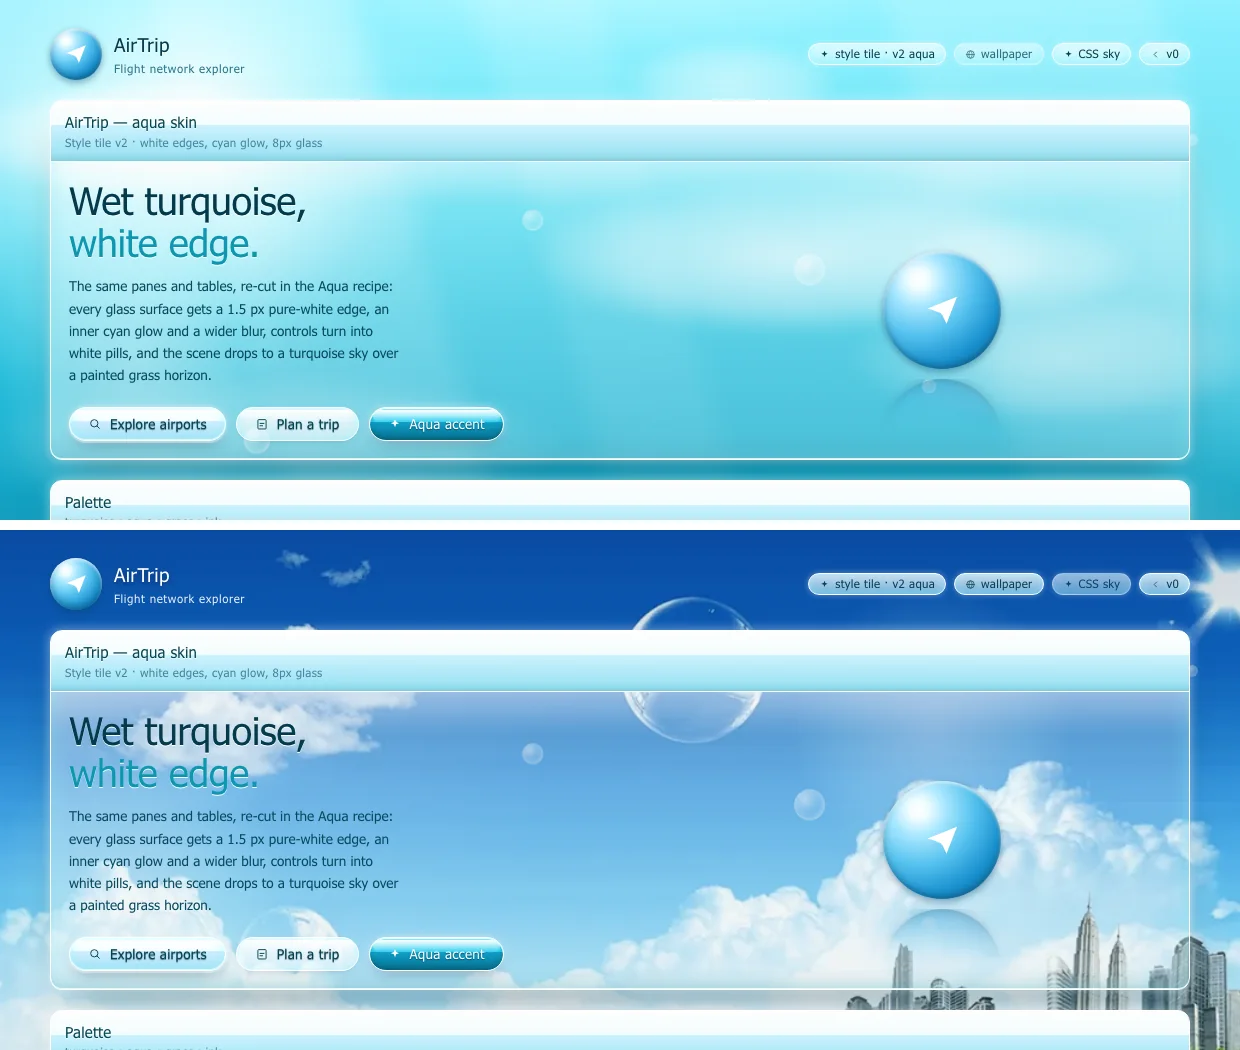
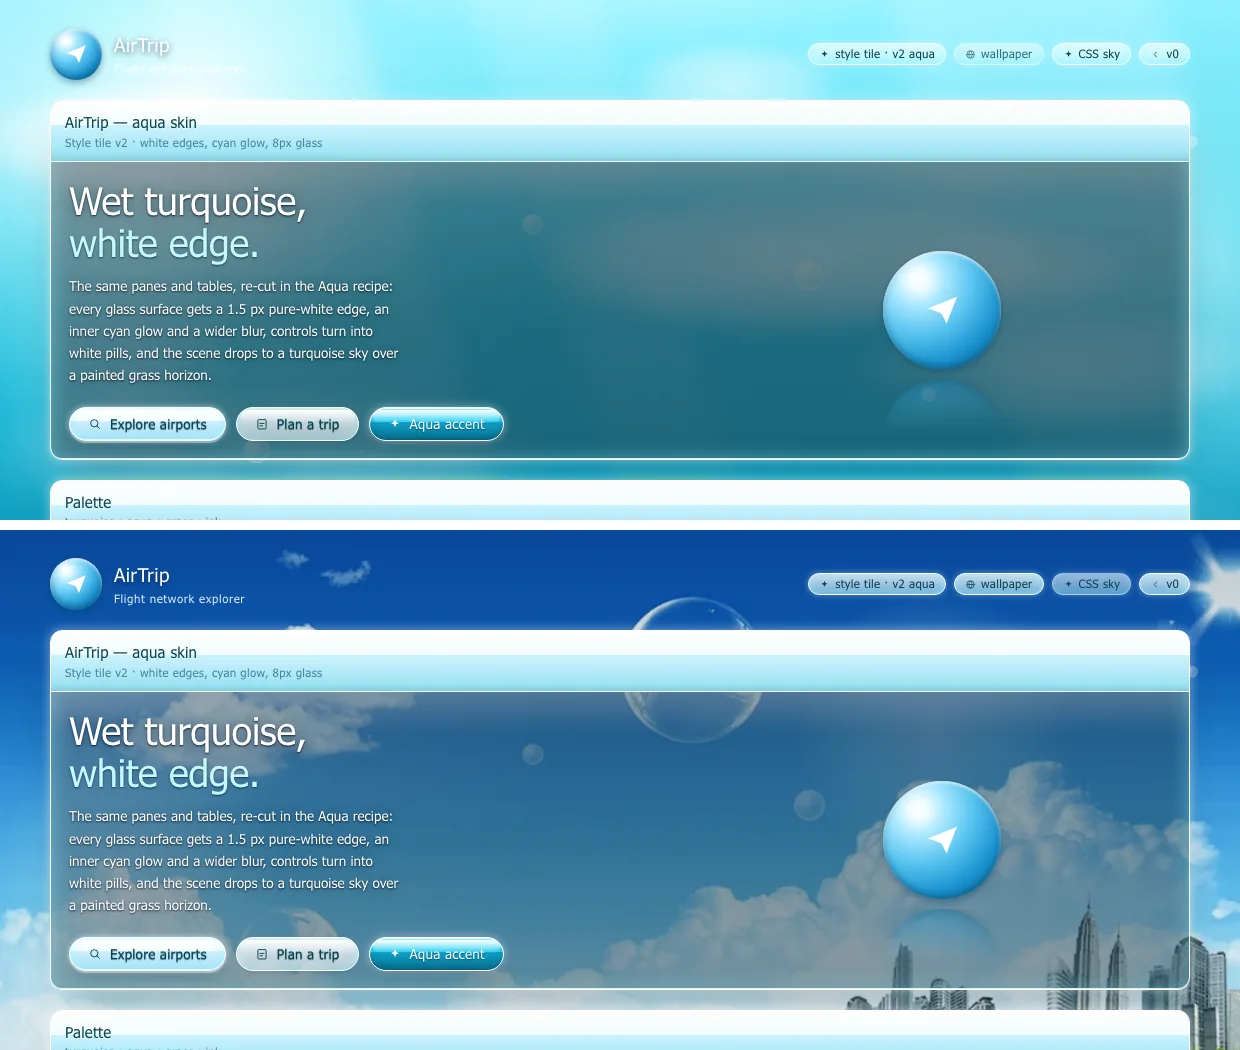
Switch the Aqua skin to white type on darker glass
Matches the reference's ink: body copy is white at 300 weight with a 1px dark
shadow, which needs a denser panel, so the glass fill goes to 46% (58% under the
painted sky) and the tables get their own dark row fills. Bars, buttons, fields
and badges keep dark ink on their pale chrome.

diff --git a/airtrip-web/src/pages/StyleTileAqua.vue b/airtrip-web/src/pages/StyleTileAqua.vue
@@ -1,5 +1,5 @@
 <script setup lang="ts">
-import { computed, onBeforeUnmount, onMounted, ref, watch } from 'vue'
+import { onBeforeUnmount, onMounted, ref, watch } from 'vue'
 import AeroWindow from '@/components/AeroWindow.vue'
 import AeroButton from '@/components/AeroButton.vue'
 import AeroIcon from '@/components/AeroIcon.vue'
@@ -30,11 +30,9 @@ onBeforeUnmount(() => {
 })
 
 // The page header sits straight on the scene, so its ink flips on the photo.
-const brandInk = computed(() => (wallpaper.value ? '#ffffff' : '#053a4c'))
-const brandShadow = computed(() =>
-  wallpaper.value ? '0 2px 6px rgba(0, 24, 48, 0.55)' : '0 1px 0 rgba(255,255,255,0.9)',
-)
-const brandSub = computed(() => (wallpaper.value ? 'rgba(255,255,255,0.9)' : '#2c7389'))
+const brandInk = '#ffffff'
+const brandShadow = '0 2px 6px rgba(0, 20, 42, 0.6)'
+const brandSub = 'rgba(255, 255, 255, 0.88)'
 
 const palette = [
   { name: 'Sky high', hex: '#A6F2FF', ink: '#053a4c' },
@@ -111,10 +109,10 @@ const icons = ['plane', 'tower', 'route', 'plan', 'users', 'upload', 'gauge', 's
     <AeroWindow title="AirTrip — aqua skin" subtitle="Style tile v2 · white edges, cyan glow, 8px glass">
       <div class="grid gap-6 md:grid-cols-[1.35fr_1fr] md:items-center">
         <div>
-          <h1 class="m-0 text-[38px] leading-[1.1] font-light tracking-[-0.5px] text-[#053a4c] [text-shadow:0_1px_0_rgba(255,255,255,0.95)]">
-            Wet turquoise,<br /><span class="text-[#0e96b0]">white edge.</span>
+          <h1 class="t-display m-0 text-[38px] leading-[1.1] font-light tracking-[-0.5px]">
+            Wet turquoise,<br /><span class="t-accent">white edge.</span>
           </h1>
-          <p class="mt-3 mb-0 max-w-[46ch] text-[13.5px] leading-[1.65] font-light text-[#0a4a5e]">
+          <p class="t-body mt-3 mb-0 max-w-[46ch] text-[13.5px] leading-[1.65] font-light">
             The same panes and tables, re-cut in the Aqua recipe: every glass surface gets a
             1.5&nbsp;px pure-white edge, an inner cyan glow and a wider blur, controls turn into
             white pills, and the scene drops to a turquoise sky over a painted grass horizon.
@@ -146,7 +144,7 @@ const icons = ['plane', 'tower', 'route', 'plan', 'users', 'upload', 'gauge', 's
           }"
         >
           <div class="text-[11px] tracking-[0.3px] opacity-80">{{ c.name }}</div>
-          <div class="mono text-[12px]">{{ c.hex }}</div>
+          <div class="swatch-mono mono text-[12px]">{{ c.hex }}</div>
         </div>
       </div>
     </AeroWindow>
@@ -154,15 +152,15 @@ const icons = ['plane', 'tower', 'route', 'plan', 'users', 'upload', 'gauge', 's
     <div class="grid gap-5 lg:grid-cols-[1.05fr_1fr]">
       <!-- type -->
       <AeroWindow title="Type" subtitle="Segoe UI / Inter · light weights only">
-        <div class="text-[32px] leading-[1.1] font-light text-[#053a4c]">Display 32 / 300</div>
-        <div class="mt-1 text-[22px] font-light text-[#0a4a5e]">Heading 22 / 300</div>
-        <div class="mt-1 text-[15px] text-[#0a4a5e]">Subheading 15 / 400</div>
-        <p class="mt-2 max-w-[52ch] text-[13.5px] leading-[1.65] font-light text-[#1b5b6d]">
+        <div class="t-display text-[32px] leading-[1.1] font-light">Display 32 / 300</div>
+        <div class="t-ink mt-1 text-[22px] font-light">Heading 22 / 300</div>
+        <div class="t-ink mt-1 text-[15px]">Subheading 15 / 400</div>
+        <p class="t-body mt-2 max-w-[52ch] text-[13.5px] leading-[1.65] font-light">
           Body 13.5 / 300 — white edges buy contrast, so long form can stay light. Numbers and
           codes keep tabular figures so columns line up.
         </p>
-        <div class="mt-2 text-[11px] tracking-[0.14em] text-[#2c7389]">LABEL 11 / 400 · TRACKED 0.14EM</div>
-        <div class="mt-1.5 mono text-[12.5px] text-[#0a4a5e]">SYD → MEL · QF 401 · 0 stops</div>
+        <div class="t-label mt-2 text-[11px] tracking-[0.14em]">LABEL 11 / 400 · TRACKED 0.14EM</div>
+        <div class="t-mono mt-1.5 mono text-[12.5px]">SYD → MEL · QF 401 · 0 stops</div>
       </AeroWindow>
 
       <!-- status -->
@@ -218,7 +216,7 @@ const icons = ['plane', 'tower', 'route', 'plan', 'users', 'upload', 'gauge', 's
               <input class="field" value="MEL" />
             </label>
           </div>
-          <div class="flex items-center gap-2 text-[13px] text-[#0a4a5e]">
+          <div class="t-ink flex items-center gap-2 text-[13px]">
             <input id="fuzzy-aqua" class="checkbox" type="checkbox" checked />
             <label for="fuzzy-aqua">Fuzzy matching</label>
           </div>
@@ -270,12 +268,12 @@ const icons = ['plane', 'tower', 'route', 'plan', 'users', 'upload', 'gauge', 's
 
       <!-- dialog -->
       <AeroWindow title="Dialog" subtitle="destructive action · 409 protected">
-        <div class="rounded-[10px] border border-white/90 bg-white/35 p-4 shadow-[inset_0_0_16px_rgba(148,246,255,0.45)]">
+        <div class="aqua-inset rounded-[10px] border border-white/60 p-4">
           <div class="flex items-start gap-3">
             <div class="orb orb-lg"><AeroIcon name="trash" :size="16" /></div>
             <div class="min-w-0">
-              <div class="text-[14.5px] text-[#053a4c]">Delete “Winter loop”?</div>
-              <p class="mt-1 mb-0 text-[13px] leading-[1.6] font-light text-[#1b5b6d]">
+              <div class="t-ink text-[14.5px]">Delete “Winter loop”?</div>
+              <p class="t-body mt-1 mb-0 text-[13px] leading-[1.6] font-light">
                 A plan that still has routes returns 409. Remove its routes first, or the request is
                 rejected.
               </p>
@@ -298,38 +296,39 @@ const icons = ['plane', 'tower', 'route', 'plan', 'users', 'upload', 'gauge', 's
           class="tile flex w-[72px] flex-col items-center gap-1.5 px-2 py-2.5"
         >
           <AeroIcon :name="i" :size="18" />
-          <span class="text-[10.5px] tracking-[0.3px] text-[#2c7389]">{{ i }}</span>
+          <span class="t-label text-[10.5px] tracking-[0.3px]">{{ i }}</span>
         </div>
       </div>
     </AeroWindow>
 
     <!-- rules -->
     <AeroWindow title="Rules of the aqua skin" subtitle="what changed vs v0">
-      <div class="grid gap-4 text-[13px] leading-[1.6] font-light text-[#0a4a5e] md:grid-cols-2">
+      <div class="t-body grid gap-4 text-[13px] leading-[1.6] font-light md:grid-cols-2">
         <div>
-          <div class="mb-1.5 text-[11px] tracking-[0.14em] text-[#2c7389]">DO</div>
+          <div class="t-label mb-1.5 text-[11px] tracking-[0.14em]">DO</div>
           <ul class="m-0 grid list-none gap-1.5 p-0">
             <li>1.5 px pure-white edge on every pane, tile, field and badge.</li>
             <li>Inner cyan glow <span class="mono">inset 0 0 20px #94f6ff66</span> instead of a dark rim.</li>
+            <li>Body type is white at 300 weight with a 1 px dark shadow; the glass holds it at 46% ink.</li>
             <li>Glass reads at <span class="mono">blur(8px) saturate(150%)</span> — wider than v0, so edges stay soft.</li>
             <li>Controls are 45 px pills; only fields keep an 8 px radius.</li>
             <li>Sky is turquoise with a painted grass horizon; no photographic wallpaper.</li>
           </ul>
         </div>
         <div>
-          <div class="mb-1.5 text-[11px] tracking-[0.14em] text-[#2c7389]">DON'T</div>
+          <div class="t-label mb-1.5 text-[11px] tracking-[0.14em]">DON'T</div>
           <ul class="m-0 grid list-none gap-1.5 p-0">
             <li>Copy their wallpapers, icon packs or mascot — the site says it does not own them.</li>
             <li>Put the glossy row-card treatment on data tables; they go muddy fast.</li>
             <li>Stack more than two glass layers; white edges multiply into mush.</li>
-            <li>Use white text on light glass; ink at 300 weight is the contrast.</li>
+            <li>Put white type on the pale chrome — bars, buttons and fields keep dark ink.</li>
             <li>Animate the glow — it cheapens the material.</li>
           </ul>
         </div>
       </div>
     </AeroWindow>
 
-    <div class="pb-2 text-center text-[11.5px] tracking-[0.5px] text-[#1b5b6d]">
+    <div class="t-label pb-2 text-center text-[11.5px] tracking-[0.5px]">
       AirTrip · aqua skin v2 · CSS + SVG only · no external assets
     </div>
   </div>

diff --git a/airtrip-web/src/styles/theme-aqua.css b/airtrip-web/src/styles/theme-aqua.css
@@ -29,7 +29,7 @@
   --ink-soft: #2c7389;
   --ink-faint: rgba(5, 58, 76, 0.55);
 
-  --glass-fill: rgba(255, 255, 255, 0.18);
+  --glass-fill: rgba(4, 40, 58, 0.46);
   --glass-edge: #ffffff;
   --glass-line: rgba(255, 255, 255, 0.9);
 
@@ -108,7 +108,7 @@
   content: '';
   position: absolute;
   inset: 0;
-  background: linear-gradient(180deg, rgba(4, 34, 62, 0.18) 0%, rgba(4, 34, 62, 0.02) 26%, rgba(4, 40, 60, 0.08) 62%, rgba(3, 40, 55, 0.3) 100%);
+  background: linear-gradient(180deg, rgba(4, 30, 56, 0.24) 0%, rgba(4, 34, 62, 0.04) 26%, rgba(4, 40, 60, 0.1) 62%, rgba(3, 40, 55, 0.34) 100%);
   pointer-events: none;
 }
 
@@ -129,16 +129,28 @@
   border: 1px solid rgba(255, 255, 255, 0.7);
 }
 
+/* The painted sky is brighter than a photograph, so it needs more ink
+   under white type; the wallpaper carries its own contrast. */
+[data-theme='aqua']:not([data-wallpaper='on']) {
+  --glass-fill: rgba(3, 34, 50, 0.58);
+}
+
+[data-theme='aqua']:not([data-wallpaper='on']) .win-dense {
+  background:
+    linear-gradient(180deg, rgba(255, 255, 255, 0.14) 0%, rgba(255, 255, 255, 0.04) 32%, rgba(255, 255, 255, 0.01) 100%),
+    rgba(3, 30, 45, 0.66);
+}
+
 /* ---------- glass ---------- */
 
 [data-theme='aqua'] .win {
   background:
-    linear-gradient(112deg, rgba(255, 255, 255, 0.26) 0%, rgba(255, 255, 255, 0.06) 22%, rgba(255, 255, 255, 0) 44%),
-    linear-gradient(180deg, rgba(255, 255, 255, 0.28) 0%, rgba(255, 255, 255, 0.09) 26%, rgba(255, 255, 255, 0.02) 60%, rgba(255, 255, 255, 0.06) 100%),
+    linear-gradient(112deg, rgba(255, 255, 255, 0.18) 0%, rgba(255, 255, 255, 0.04) 22%, rgba(255, 255, 255, 0) 44%),
+    linear-gradient(180deg, rgba(255, 255, 255, 0.2) 0%, rgba(255, 255, 255, 0.06) 26%, rgba(255, 255, 255, 0.01) 60%, rgba(255, 255, 255, 0.04) 100%),
     var(--glass-fill);
   border: 1.5px solid #ffffff;
-  backdrop-filter: blur(8px) saturate(1.65) brightness(1.01);
-  -webkit-backdrop-filter: blur(8px) saturate(1.65) brightness(1.01);
+  backdrop-filter: blur(8px) saturate(1.7) brightness(0.94);
+  -webkit-backdrop-filter: blur(8px) saturate(1.7) brightness(0.94);
   box-shadow:
     inset 0 0 20px rgba(148, 246, 255, 0.45),
     inset 0 1px 0 #ffffff,
@@ -150,8 +162,8 @@
 
 [data-theme='aqua'] .win-dense {
   background:
-    linear-gradient(180deg, rgba(255, 255, 255, 0.24) 0%, rgba(255, 255, 255, 0.06) 32%, rgba(255, 255, 255, 0.01) 100%),
-    rgba(226, 252, 255, 0.30);
+    linear-gradient(180deg, rgba(255, 255, 255, 0.16) 0%, rgba(255, 255, 255, 0.04) 32%, rgba(255, 255, 255, 0.01) 100%),
+    rgba(4, 38, 55, 0.55);
 }
 
 [data-theme='aqua'] .win-bar {
@@ -186,10 +198,10 @@
 [data-theme='aqua'] .tile {
   background: linear-gradient(
     180deg,
-    rgba(255, 255, 255, 0.52) 0%,
-    rgba(196, 255, 250, 0.30) 46%,
-    rgba(37, 209, 248, 0.2) 46.5%,
-    rgba(0, 208, 255, 0.24) 100%
+    rgba(255, 255, 255, 0.28) 0%,
+    rgba(180, 250, 255, 0.14) 46%,
+    rgba(10, 90, 120, 0.26) 46.5%,
+    rgba(4, 58, 82, 0.34) 100%
   );
   border: 1.5px solid #ffffff;
   box-shadow:
@@ -199,18 +211,25 @@
 }
 
 [data-theme='aqua'] .aero-table thead th {
-  color: #05434f;
-  background: linear-gradient(180deg, rgba(255, 255, 255, 0.86), rgba(186, 246, 255, 0.7));
-  border-bottom: 1.5px solid #ffffff;
+  color: #ffffff;
+  text-shadow: 0 1px 2px rgba(0, 16, 32, 0.6);
+  background: linear-gradient(180deg, rgba(4, 46, 66, 0.46), rgba(6, 62, 86, 0.38));
+  border-bottom: 1.5px solid rgba(255, 255, 255, 0.75);
 }
 
 [data-theme='aqua'] .aero-table tbody td {
-  color: #0a4457;
-  border-bottom: 1px solid rgba(255, 255, 255, 0.55);
+  color: #ffffff;
+  text-shadow: 0 1px 2px rgba(0, 16, 32, 0.55);
+  border-bottom: 1px solid rgba(255, 255, 255, 0.22);
+  background: rgba(4, 46, 66, 0.26);
 }
 
-[data-theme='aqua'] .aero-table tbody tr:nth-child(even) {
-  background: rgba(255, 255, 255, 0.18);
+[data-theme='aqua'] .aero-table tbody tr:nth-child(even) td {
+  background: rgba(4, 46, 66, 0.36);
+}
+
+[data-theme='aqua'] .aero-table tbody tr:hover td {
+  background: rgba(10, 92, 126, 0.48);
 }
 
 /* ---------- controls ---------- */
@@ -310,4 +329,55 @@
   background: linear-gradient(180deg, #ffffff 0%, #d6f8ff 46%, #9ee3f6 100%);
   border-color: #ffffff;
   text-shadow: 0 1px 0 #ffffff;
+}
+
+/* ---------- light ink: white type with a dark shadow (FrutigerOS recipe) ---------- */
+
+[data-theme='aqua'] .win-body {
+  color: #ffffff;
+}
+
+[data-theme='aqua'] .t-display,
+[data-theme='aqua'] .t-ink,
+[data-theme='aqua'] .t-body,
+[data-theme='aqua'] .stat-value {
+  color: #ffffff;
+  text-shadow: 0 1px 2px rgba(0, 12, 24, 0.78), 0 0 12px rgba(0, 18, 34, 0.3);
+}
+
+[data-theme='aqua'] .t-accent {
+  color: #c4f9ff;
+  text-shadow: 0 1px 2px rgba(0, 14, 28, 0.6);
+}
+
+[data-theme='aqua'] .t-ink-soft,
+[data-theme='aqua'] .t-label,
+[data-theme='aqua'] .stat-label,
+[data-theme='aqua'] .field-label {
+  color: rgba(255, 255, 255, 0.82);
+  text-shadow: 0 1px 2px rgba(0, 14, 28, 0.55);
+}
+
+[data-theme='aqua'] .t-mono,
+[data-theme='aqua'] .win-body .mono {
+  color: #d8fbff;
+  text-shadow: 0 1px 2px rgba(0, 14, 28, 0.55);
+}
+
+/* colour chips print their own ink, so they opt out of the light mono tone */
+[data-theme='aqua'] .swatch-mono {
+  color: inherit;
+  text-shadow: none;
+}
+
+/* the pop-up inside the dialog is a second glass layer, not a white card */
+[data-theme='aqua'] .aqua-inset {
+  background: rgba(2, 32, 48, 0.34);
+  border-color: rgba(255, 255, 255, 0.55);
+  box-shadow: inset 0 0 18px rgba(148, 246, 255, 0.4), inset 0 1px 0 rgba(255, 255, 255, 0.7);
+}
+
+[data-theme='aqua'] .win .field {
+  color: #05434f;
+  text-shadow: none;
 }

diff --git a/airtrip-web/README.md b/airtrip-web/README.md
@@ -54,7 +54,8 @@ npm run build                          # 产物写入 dist/，由 Flask 在 /app
 [`docs/style-tile-desktop.webp`](docs/style-tile-desktop.webp)，运行中的版本是
 `/app/style-tile`。Aqua 皮肤的对比样张见
 [`docs/style-tile-compare.webp`](docs/style-tile-compare.webp)（上：v0，下：Aqua），
-线上版本是 `/app/style-tile-aqua`。它的照片背景是你提供的壁纸
+线上版本是 `/app/style-tile-aqua`。玻璃上的文字是 300 字重的白色 + 深色阴影；标题栏、按钮、输入框保留深色文字。
+它的照片背景是你提供的壁纸
 （[`docs/style-tile-aqua-backgrounds.webp`](docs/style-tile-aqua-backgrounds.webp)
 是照片与纯 CSS 天空的对比）；如果这张图不能随仓库公开分发，替换
 `src/assets/aero-wallpaper.webp` 或改用 `?bg=css` 即可。

diff --git a/airtrip-web/README.en.md b/airtrip-web/README.en.md
@@ -54,7 +54,8 @@ The design system itself is documented in
 [`docs/style-tile-desktop.webp`](docs/style-tile-desktop.webp); the live version
 is `/app/style-tile`. The Aqua re-skin is sketched in
 [`docs/style-tile-compare.webp`](docs/style-tile-compare.webp) and served at
-`/app/style-tile-aqua` (top: v0, bottom: Aqua). Its photographic background is a
+`/app/style-tile-aqua` (top: v0, bottom: Aqua). Type on the glass is white at 300 weight with a dark shadow; title bars,
+buttons and fields keep dark ink. Its photographic background is a
 user-supplied wallpaper ([`docs/style-tile-aqua-backgrounds.webp`](docs/style-tile-aqua-backgrounds.webp)
 compares it with the CSS-only sky); swap `src/assets/aero-wallpaper.webp` or use
 `?bg=css` if the image cannot be cleared for distribution.
